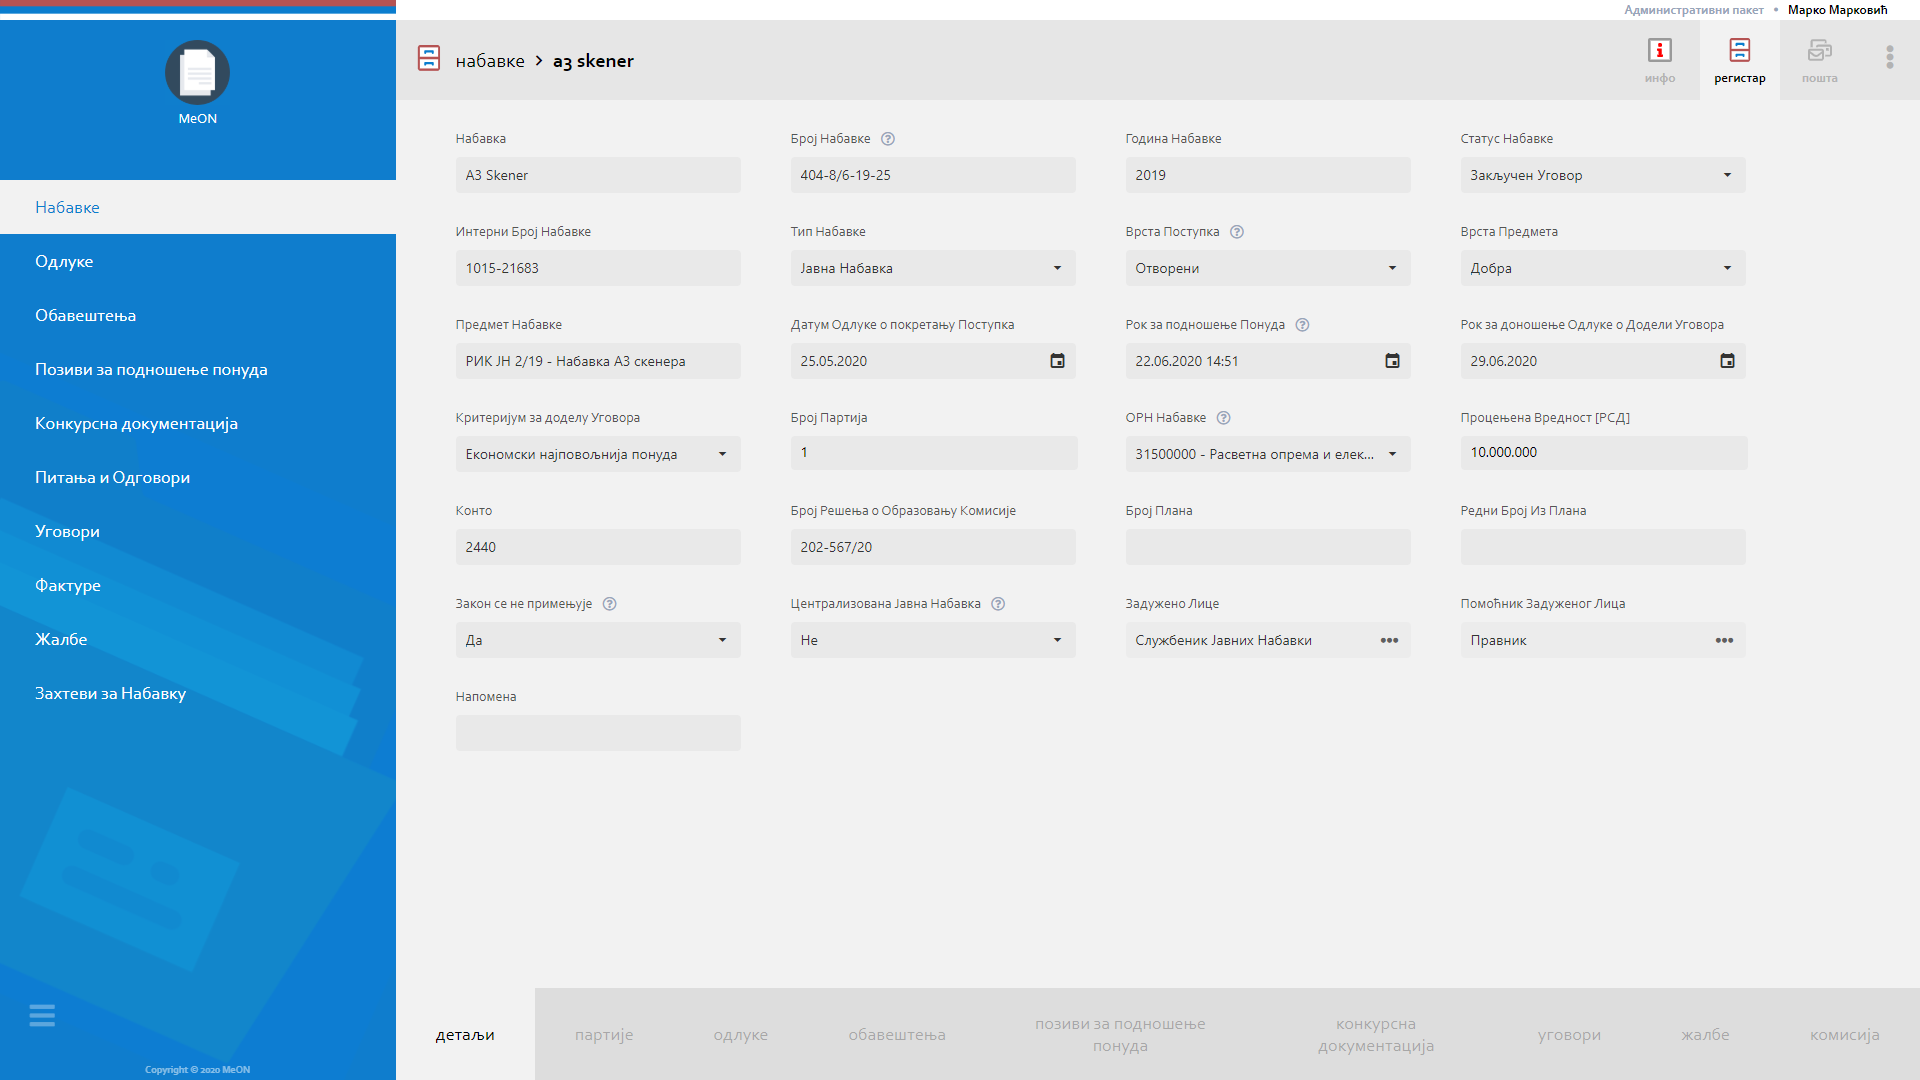
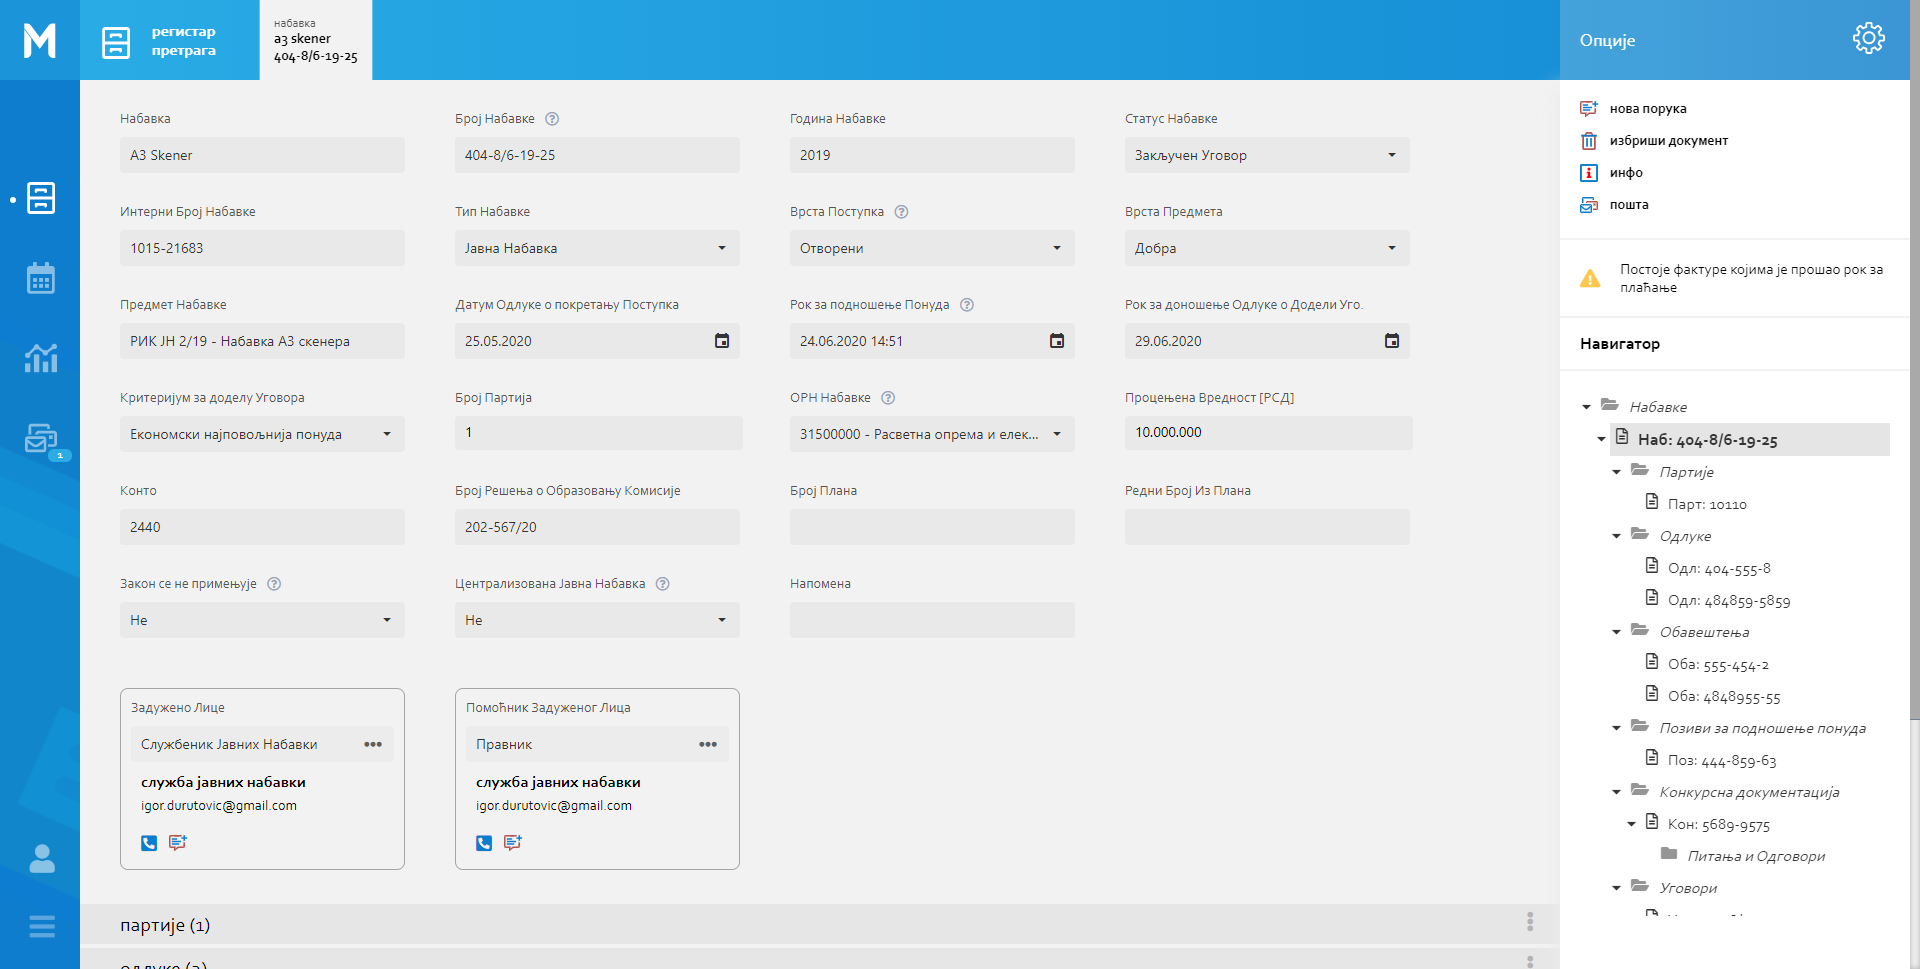
Changes to Registar,kalendar,izvestaji,posta, new layout

diff --git a/docs/prirucnik/navigacija.rst b/docs/prirucnik/navigacija.rst
@@ -9,21 +9,23 @@ MeON апликација је пројектована тако да корис
 
 На сваком од екрана апликације постоји секција са леве стране која представља предефинисани списак ентитета са којима корисник може 'радити'. Под овим подразумевамо, претрагу, унос, измену, анализу и колаборацију на нивоу било које инстанце коју корисник има право да види. Раније смо поменули пакете и објаснили њихову улогу у апликацији. Овде ћемо поновити да они (између осталог) омогућавају да се тачно одреде ентитети које корисник може видети у апликацији.
 
-.. list-table:: :align: center
-
-    * - .. figure:: ../_static/img/Navigacija/GlavniMenu/GlavniMenu6.png
-           :height: 700px
+   .. figure:: ../_static/img/Navigacija/GlavniMenu/GlavniMenu6.png
+           :height: 400px
+           :width: 700px
            :align: center
 
            Пример менија за начелника
 
-      - .. figure:: ../_static/img/Navigacija/GlavniMenu/GlavniMenu7.png
-           :height: 700px
+   .. figure:: ../_static/img/Navigacija/GlavniMenu/GlavniMenu7.png
+           :height: 400px
+           :width: 700px
            :align: center
 
            Пример менија за ИТ службеника
 
-На сваком од ентитета главног менија можемо добити нотификацију која ће бити приказана као "беџ" са бројем нотификација. Нотификације ће бити детаљније објашњене у поглављу :ref:`Пошта<posta>`.
+
+
+:ref:`Пошта<posta>`.
 
 Кликом на лого или назив компаније можемо увек да се вратимо на почетну листу ентитета Набавке, без обзира на то у ком делу апликације смо тренутно позиционирани.
 
@@ -40,6 +42,18 @@ MeON апликација је пројектована тако да корис
 * :ref:`Календар<kalendar>`
 * :ref:`Извештаји<izvestaji>`
 * :ref:`Пошта<posta>`
+
+Сваки од модула je контексно повезан са сваким од ентитета на свој начин, објаснићемо укратко везу ентитета са сваким од њих а биће још детаљније објашњени у сваком модулу посебно.
+
+**Регистар** има могућност селектовања ентитета посебно. У горњем делу екрана се налазе сви ентитети којима имамо приступ. Приликом отварања модула Регистар, увек нам је селектован ентитет Набавка као главни ентиет. MeON апликација памти наш последње одабрани ентитет који смо претраживали и приликом промене 
+
+**Календар** садржи филтер по пољима ентитета, односно садржи све ентитете и њихова поља по којима можемо филтрирати односно приказати податке на календару. 
+
+**Извештаји** имају могућност селектовања ентитета посебно, у горњем делу екрана при одабиру модула Извештаји. Поред одабира ентитета, Извештаји садрже и Одабране Извештаје који су скуп извештаја који смо ми одабрали. Одабрани извештаји могу садржати извештаје од више различитих ентитета.
+
+**Пошта** слично као и Регистар, пошта садржи могућност селектовања ентитета у горњем делу екрана. Са малом разликом у односу на Регистар, Пошта садржи опцију "Све" која је уједно и преселектована приликом отварања модула Пошта.
+
+
 
 Битно је напоменути да је сваки модул контексно повезан са селектованим ентитетом из главног менија. Ако је у главном менију селектован ентитет Набавке а у менију модула селектован Регистар, ово значи да корисник гледа Регистар Набавки. Аналогијом са овим примером долазимо до закључка да корисник врло лако може доћи до жељеног контекста: Регистар Уговора, Календар Набавки, Пошта на нивоу Конкурсне Документрације, Извештаји у оквиру Фактура итд.
 
@@ -67,43 +81,14 @@ MeON апликација је пројектована тако да корис
 
    Пошта
 
-.. _breadcrumbs:
+Навигациони табови
+--------------------
 
-Интерактивни наслов
--------------------
+Табови или навигациони табови су саставни део MeON апликације, представљају приказ 
 
-Интерактивни наслов представља секцију MeON апликације која омогућава кориснику кретање кроз хијерархију докумената. Како је то замишљено?
+.. figure:: ../_static/img/Evidencija/navigacioniTab.png
+   :width: 700
+   :height: 150
+   :align: center
 
-Упознавајући се са :ref:`ентитетима<entiteti>` научили смо да су они међусобно везани хијерархијским односом. Ентитет Набавка је у нашем случају главни (врховни) ентитет. Конкретна набавка (инстанца) може имати једну верзију конкурсне документације а може је имати и више (измена и допуна). Ова законитост нам помаже да схватимо да је ентитет Конкурсна Документација уствари подентитет Набавке. Даље, инстанца набавке може имати један или више уговора (поруджбеница, оквирних споразума). Ово такође сврстава Уговор као подентитет Набавке. По одређеном уговору можемо имати више фактура. Ово значи да је Фактура подентитет Уговора итд.
-
-Интерактивни наслов је пројектован да кориснику омогући лаку навигацију кроз хијерархију докумената. Ова функционалност је имплементирана преко Breadcrumbs-а или "мрвица од хлеба"
-
-**набавке** > 
-
-**набавке** > **набавка штампача** > 
-
-**набавке** > **набавка штампача** > **уговори** > 
-
-**набавке** > **набавка штампача** > **уговори** > **50602/20** > 
-
-**набавке** > **набавка штампача** > **уговори** > **50602/20** > **фактуре** > 
-
-**набавке** > **набавка штампача** > **уговори** > **50602/20** > **фактуре** > **фактура 5938/20**
-
-Ово су примери различитих наслова у хијерархијској структури набавке. Први наслов означава да се налазимо на регистру набавки. Други наслов означава да смо на детаљу набавке која се зове **набавка штампача**. Трећи наслов значи да гледамо листу уговора за набавку штампача. Четврти наслов означава да смо изабрали конкретан уговор у набавци. Пети наслов значи да гледамо листу фактура за изабрани уговор. И на крају, последњи наслов значи да гледамо детаље конкретне фактуре.
-
-Кликом на било који елемент у breadcrumbs-у, можемо се кретати кроз хијерархију и видети податке селектованог елемента на радној површини.
-
-Breadcrumbs увек полази од селектованог ентитета (из главног менија) ка смеру куда се корисник креће кроз ентитете. Ово значи да уколико је селектовани ентитет **Уговори**, могуће вредности интерактивног наслова могу бити:
-
-**уговори** > 
-
-**уговори** > **50602/20** > 
-
-**уговори** > **50602/20** > **фактуре** > 
-
-**уговори** > **50602/20** > **фактуре** > **фактура 5938/20**
-
-Информације које се приказују када кликнемо на неки елемент у breadcrumbs-у, могу бити листе или детаљи селектоване инстанце ентитета.
-
-.. Tip:: Интерактивни наслов има своју функцију у модулу Регистар и Пошта. У осталим модулима наслов није интерактиван.
+   Навигациони таб

diff --git a/docs/prirucnik/posta.rst b/docs/prirucnik/posta.rst
@@ -73,7 +73,7 @@
 
 Свака порука садржи датум и време када је порука примљена односно послата.
 
-.. Tip:: Кроз поље за преглед порука можете се кретати коришћењем scroll-a
+.. Tip:: Кроз поље за преглед порука можете се кретати коришћењем scroll bar-а у десној страни екрана.
 
 Поље за унос поруке и дугме Пошаљи налази се на дну екрана.
 
